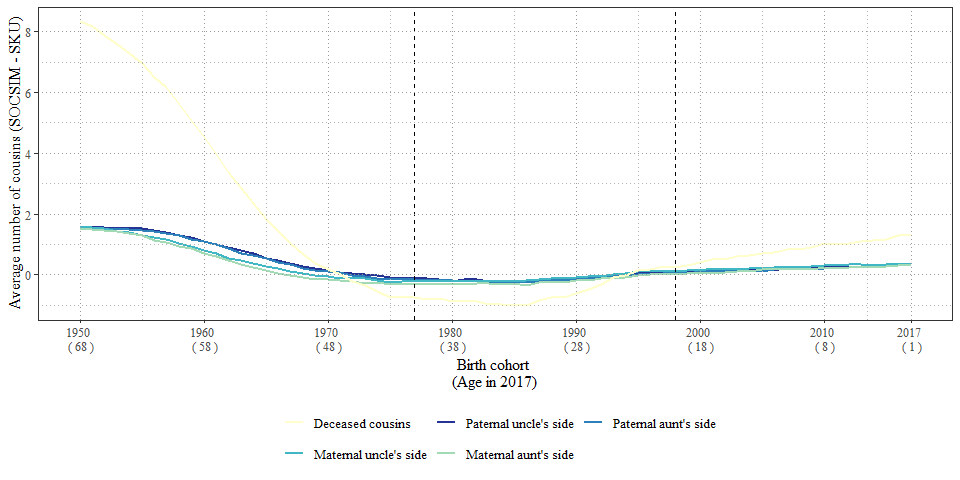
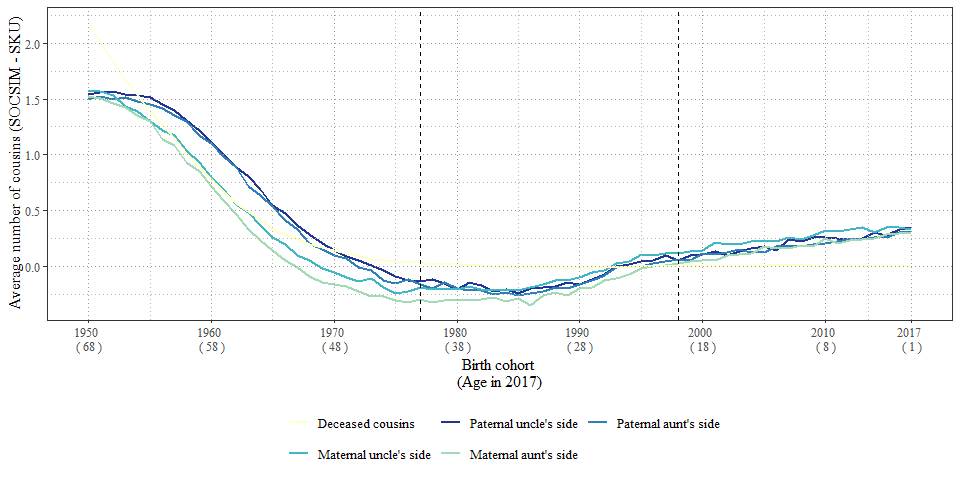
Add Figures 7 and 8b with comparisons

diff --git a/2_Compare_Figures.md b/2_Compare_Figures.md
@@ -1368,7 +1368,6 @@ Fig6b_SKU <- ggplot() +
   guides(fill = guide_legend(override.aes = list(color = 0), ncol = 3, byrow = TRUE))
 
 
-
 Fig6b_Diff <- left_join(SKU %>% 
                           filter(Fig == "Fig6b") %>% 
                           select(IDbirthYear, mean_kin, type) %>% 
@@ -1518,11 +1517,73 @@ Fig7_SKU  <- ggplot() +
         panel.ontop = TRUE,
         text = element_text(family = "Times", size = 12)) +
   guides(fill = guide_legend(override.aes = list(color = 0), ncol = 2, byrow = TRUE))  
-    
+
+                        
+Fig7_Diff <- left_join(SKU %>% 
+                         filter(Fig == "Fig7") %>% 
+                         select(IDbirthYear, mean_kin, type) %>% 
+                         pivot_wider(names_from = type, values_from = mean_kin) %>%
+                         mutate_at(c(2:6), ~ replace_na(.,0)) %>% 
+                         # The registered deceased from the table include both the living and the deceased
+                         # So, we need to estimate the actual number of deceased
+                         mutate(alive = `grandfather (father's side)` + `grandmother (father's side)` + 
+                                `grandfather (mother's side)` + `grandmother (mother's side)`,
+                                `not living` = `registered deceased`,
+                                 `registered deceased` = `not living` - alive,
+                                unregistered = 4-(alive + `registered deceased`)) %>%
+                         select(-c(alive,`not living`)) %>%
+                         pivot_longer(cols = c(2:7), 
+                                       names_to = "Type", values_to = "mean_kin_SKU"), 
+                       grandparent_table %>% 
+                         pivot_wider(names_from = Type, values_from = mean_kin) %>% 
+                         mutate_at(c(2:6), ~ replace_na(.,0)) %>% 
+                         select(-`not living`) %>%
+                         # We need to add a value of 0 for unregistered grandparents and 
+                        # estimated the deceased, because for plotting not living have all the value of 4
+                         mutate(alive = `grandfather (father's side)` + `grandmother (father's side)` + 
+                                `grandfather (mother's side)` + `grandmother (mother's side)`,
+                                `registered deceased` = 4 - alive, 
+                                unregistered = 0) %>%
+                         select(-alive) %>% 
+                         pivot_longer(cols = c(2:7), 
+                                      names_to = "Type", values_to = "mean_kin_SOCSIM")) %>%
+  mutate(Difference = mean_kin_SOCSIM - mean_kin_SKU) %>%
+  filter(!is.na(Difference)) %>% 
+  ggplot()+
+  geom_line(aes(x = IDbirthYear, y = Difference, color = Type), linewidth =1) +
+  geom_vline(xintercept = c(1977), color = "black", lty = 2) +
+  scale_color_manual(values = c("#FED98E", "#FFFFCC", "#A1DAB4", "#41B6C4", "#2C7FB8", "#253494"),
+                    limits = c("unregistered", 
+                               "registered deceased", 
+                               "grandfather (father's side)", 
+                               "grandmother (father's side)", 
+                               "grandfather (mother's side)",
+                               "grandmother (mother's side)"), 
+                    labels = c("Unregistered grandparents", 
+                      "Registered deceased grandparents", "Paternal grandfather", "Paternal grandmother", "Maternal grandfather", "Maternal grandmother")) +
+  labs(x = "Birth cohort \n(Age in 2017)", y = "Average number of grandparents", color = "") +
+  scale_x_continuous(breaks   = c(seq(1920, 2010,by = 10), 2017), labels = paste(c(seq(1920, 2010,by = 10), 2017), "\n", "(",2018 - c(seq(1920, 2010,by = 10), 2017),")")) +
+  theme_bw() +
+  theme(panel.grid.major.y = element_line(colour = "grey60", linewidth = 0.3, linetype = 9),
+        panel.grid.major.x = element_line(colour = "grey60", linewidth = 0.3, linetype = 9),
+        panel.grid.minor = element_line(colour = "grey70", linewidth = 0.3, linetype = 9),
+        legend.position = "bottom",
+        legend.key.height = unit(1, "line"),
+        panel.background = element_rect(fill = NA), 
+        panel.ontop = TRUE,
+        text = element_text(family = "Times", size = 12)) +
+  guides(fill = guide_legend(override.aes = list(color = 0), ncol = 2, byrow = TRUE))  
+
 plot_grid(Fig7_SOCSIM, Fig7_SKU, align = "hv")
 ```
 
 <img src="2_Compare_Figures_files/figure-gfm/unnamed-chunk-14-1.png" style="display: block; margin: auto;" />
+
+``` r
+Fig7_Diff
+```
+
+<img src="2_Compare_Figures_files/figure-gfm/unnamed-chunk-14-2.png" style="display: block; margin: auto;" />
 
 #### Fig. 8a: Distribution of the total number of kin by birth cohort 1915–2017. SOCSIM outputs
 
@@ -1606,10 +1667,10 @@ totalkin_table  <- rbind(totalkin_table[, .(mean_kin = .N / N_17, Type = "not li
   distinct()%>%
   mutate(Type = factor(Type, levels = c("not living", "grandchild","child","sibchild","sibling","cousin","parent","parsib","grandparent")))
 
-
-totalkin_table <- rbind(totalkin_table, data.frame(IDbirthYear = 1931,
-                                                   mean_kin = 0,
-                                                   Type = c("sibchild", "sibling")))
+## No idea why this drop is add here
+# totalkin_table <- rbind(totalkin_table, data.frame(IDbirthYear = 1931,
+#                                                    mean_kin = 0,
+#                                                    Type = c("sibchild", "sibling")))
 
 Fig8b_SOCSIM <- ggplot() +
   geom_area(data = totalkin_table[Type == "not living"], mapping = aes(x = IDbirthYear, y = mean_kin, fill = Type), color = "grey30", lwd = 0.5) +
@@ -1654,7 +1715,48 @@ Fig8b_SKU <- SKU %>%
   guides(fill = guide_legend(override.aes = list(color = 0))) +
   expand_limits(y = c(0, 43))
 
+Fig8b_Diff <- full_join(SKU %>% 
+                         filter(Fig == "Fig8b") %>% 
+                         select(IDbirthYear, mean_kin_SKU = mean_kin, Type = type),
+                       totalkin_table %>% 
+                         pivot_wider(names_from = Type, values_from = mean_kin) %>%
+                         mutate_at(c(2:10), ~ replace_na(.,0)) %>% 
+                         # We need to add a value of 0 for unregistered grandparents and 
+                        # estimated the deceased, because for plotting not living have all the value of 4
+                         mutate(alive = grandchild + child + sibchild + sibling + cousin + parent + parsib + grandparent, 
+                                `registered deceased` = `not living` - alive) %>% 
+                         select(-c(`not living`, alive)) %>%
+                         pivot_longer(cols = c(2:10), 
+                                       names_to = "Type", values_to = "mean_kin_SOCSIM")) %>% 
+  mutate_at(c(2,4), ~ replace_na(.,0)) %>% 
+  mutate(Difference = mean_kin_SOCSIM - mean_kin_SKU) %>%
+  filter(!is.na(Difference)) %>%
+  ggplot()+
+  geom_line(aes(x = IDbirthYear, y = Difference, color = Type), linewidth =1) +
+  labs(x = "Birth cohort \n(Age in 2017)", y = "Average number of kin", color = "") +
+  scale_color_manual(values =c("#FFFFD9","#081D58","#253494","#225EA8","#1D91C0","#41B6C4","#7FCDBB","#C7E9B4","#EDF8B1"),
+                    limits = c("registered deceased", "grandchild", "child", "sibchild", "sibling", "cousin", "parent", "parsib", "grandparent"),
+                    labels = c("Deceasead kin", "Grandchildren", "Children", "Nieces and nephews", "Siblings", "Cousins", "Parents", "Aunts and uncles", "Grandparents")) +
+  scale_x_continuous(breaks   = c(seq(1920, 2010,by = 10), 2017), 
+                     labels = paste(c(seq(1920, 2010,by = 10), 2017), "\n", "(",2018 - c(seq(1920, 2010,by = 10), 2017),")")) +
+  theme_bw() +
+  theme(panel.grid.major.y = element_line(colour = "grey60", linewidth = 0.3, linetype = 9),
+        panel.grid.major.x = element_line(colour = "grey60", linewidth = 0.3, linetype = 9),
+        panel.grid.minor = element_line(colour = "grey70", linewidth = 0.3, linetype = 9),
+        legend.position = "right",
+        legend.key.height = unit(1, "line"),
+        panel.background = element_rect(fill = NA), 
+        panel.ontop = TRUE,
+        text = element_text(family = "Times", size = 12)) +
+  guides(fill = guide_legend(override.aes = list(color = 0)))
+
 plot_grid(Fig8b_SOCSIM, Fig8b_SKU, align = "hv")
 ```
 
 <img src="2_Compare_Figures_files/figure-gfm/unnamed-chunk-16-1.png" style="display: block; margin: auto;" />
+
+``` r
+Fig8b_Diff
+```
+
+<img src="2_Compare_Figures_files/figure-gfm/unnamed-chunk-16-2.png" style="display: block; margin: auto;" />
